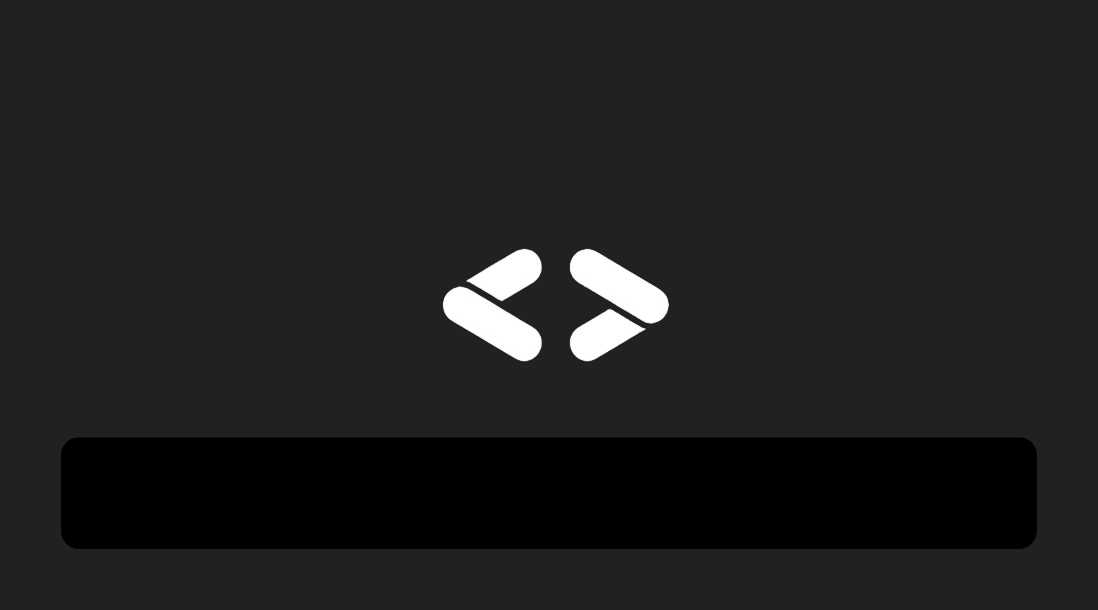
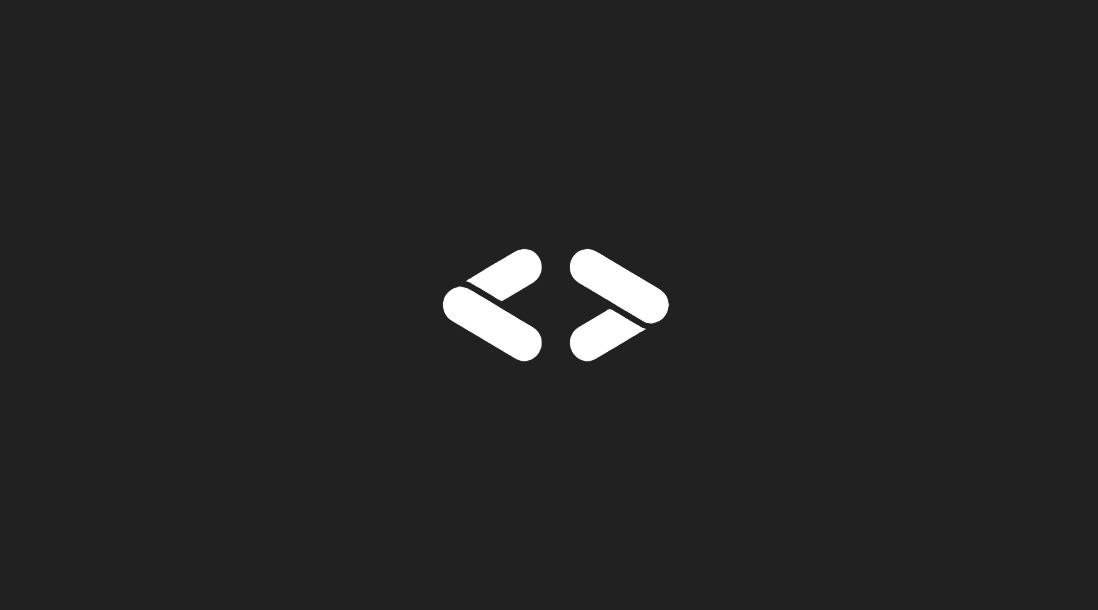
chore: removed title.py

Changed region(s): [[0.031, 0.7164, 0.9599, 0.9033]]

diff --git a/services/sheets_service.py b/services/sheets_service.py
@@ -19,7 +19,6 @@ credentials = {
 gc = gspread.service_account_from_dict(credentials)
 sh = gc.open_by_key(st.secrets.gsheets.sheets_id)
 
-sh = gc.open_by_key(os.getenv("sheets_id"))
 
 sheet_names = ["users", "events", "xp_points", "submission", "activities", "certificates", "event_participated"]
 
